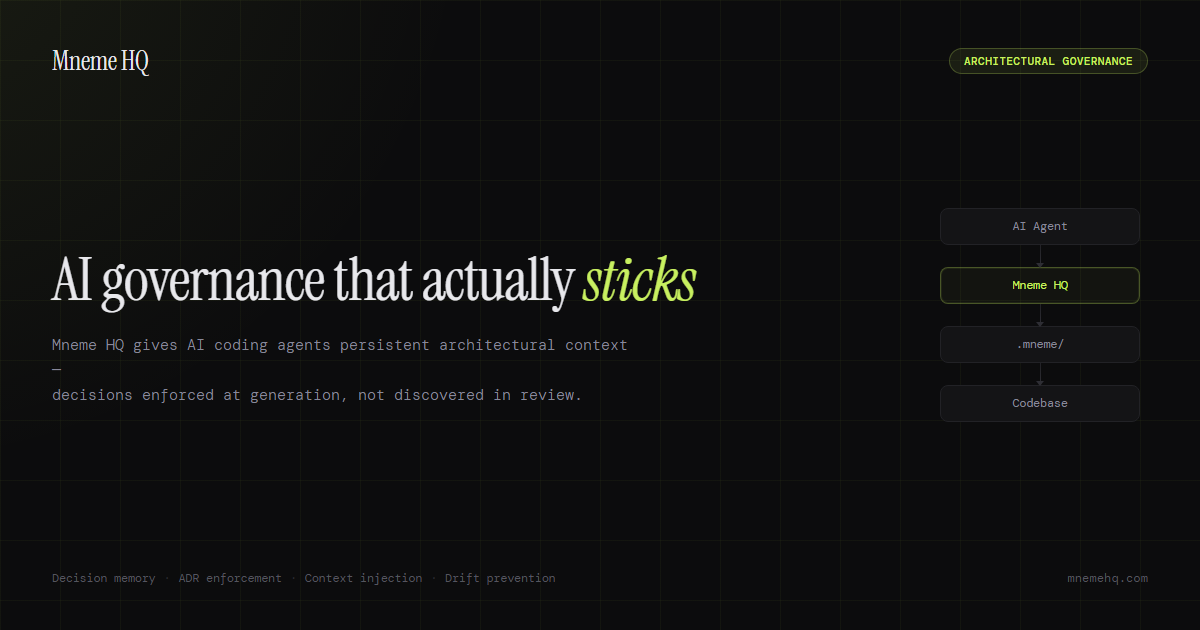
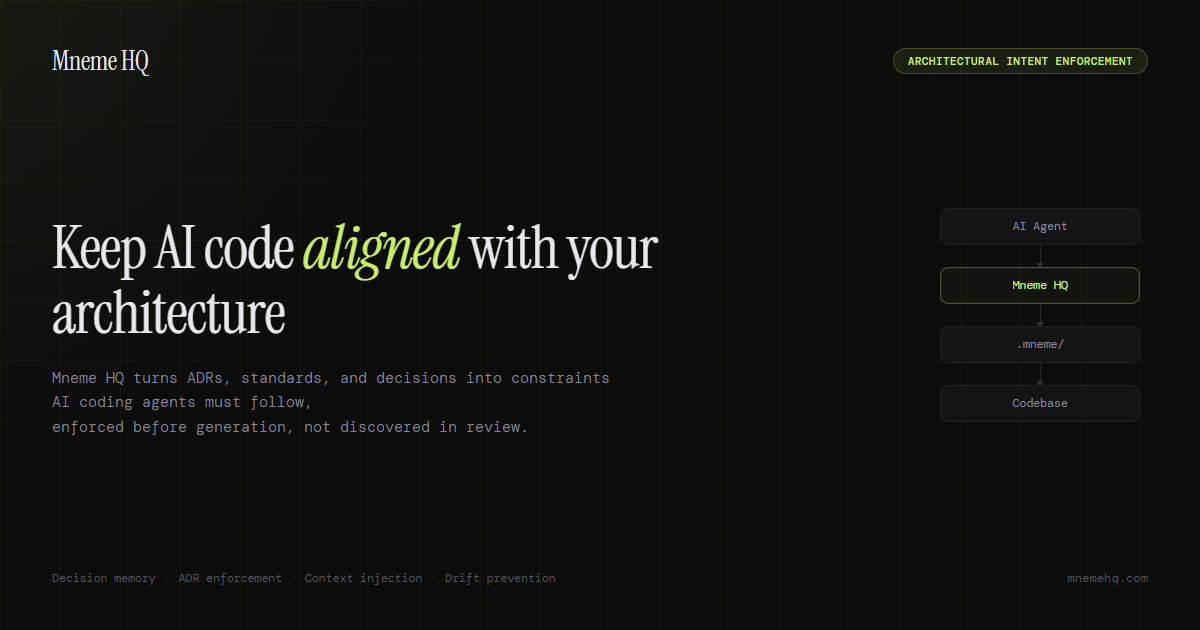
site: reposition homepage to architectural intent enforcement
Lead the homepage with "architectural intent enforcement for AI coding
agents" while keeping "engineering governance" as the broader category,
per the positioning correction.

- Metadata/OG/Twitter/JSON-LD: new title, description, and SoftwareApplication/
  Organization/FAQPage copy; drop the "AI code review bottleneck" entity.
- Hero: new eyebrow, H1 ("Keep AI-generated code aligned with your
  architecture."), sub, bullets, and CTA order (demo, GitHub, pilot).
- Problem section: replace "The bottleneck" with "The architectural control
  gap" (H2 + body + three reframed cards).
- "Where Mneme sits": rename section to "The architectural intent enforcement
  layer" and relabel the SVG diagram (Engineering Governance Layer ->
  Architectural Intent Enforcement, Policy evaluation -> Constraint evaluation,
  Project memory -> Decision corpus, Engineering rules -> Architectural
  constraints, REJECT -> BLOCK, Architecturally compliant code ->
  Architecture-aligned code).
- Stack: rename to "The AI-assisted engineering stack"; Layer 05 ->
  "Architectural intent enforcement".
- Add "Not all AI guardrails govern architecture" disambiguation section.
- Regenerate og.png from the updated OG template.

Homepage-only pass; other pages, the category page, and distribution are
follow-ups.

Changed region(s): [[0.0308, 0.3619, 0.5858, 0.6937], [0.74, 0.0905, 0.9558, 0.1206]]

diff --git a/site/index.html b/site/index.html
@@ -3,11 +3,11 @@
 <head>
   <meta charset="UTF-8" />
   <meta name="viewport" content="width=device-width, initial-scale=1.0" />
-  <title>Mneme HQ — Architectural Governance for AI-Assisted Development</title>
+  <title>Architectural Intent Enforcement for AI Coding Agents | Mneme HQ</title>
   <link rel="preload" href="/assets/fonts/InstrumentSerif-400.woff2" as="font" type="font/woff2" crossorigin>
   <link rel="preload" href="/assets/fonts/Inter-400.woff2" as="font" type="font/woff2" crossorigin>
   <link rel="stylesheet" href="/assets/css/fonts.css">
-  <meta name="description" content="Mneme HQ enforces your team's architectural decisions before AI-generated code reaches review. Prevent drift, enforce standards, and govern AI coding at the source." />
+  <meta name="description" content="Keep AI-generated code aligned with ADRs, engineering standards, and system boundaries. Mneme HQ enforces architectural intent before generation and in CI." />
   <meta name="google-site-verification" content="eW7iETj7y-Ni_T0RYKR0cvBXhaz3y4NfEfHSwXbMlNQ" />
   <meta name="robots" content="index, follow" />
   <meta name="theme-color" content="#0c0c0d" />
@@ -16,14 +16,14 @@
   <!-- Open Graph -->
   <meta property="og:type" content="website" />
   <meta property="og:site_name" content="Mneme HQ" />
-  <meta property="og:title" content="Mneme HQ — Architectural Governance for AI-Assisted Development" />
-  <meta property="og:description" content="Mneme HQ enforces your team's architectural decisions before AI-generated code reaches review. Prevent drift, enforce standards, and govern AI coding at the source." />
+  <meta property="og:title" content="Architectural Intent Enforcement for AI Coding Agents | Mneme HQ" />
+  <meta property="og:description" content="Keep AI-generated code aligned with ADRs, engineering standards, and system boundaries. Mneme HQ enforces architectural intent before generation and in CI." />
   <meta property="og:url" content="https://mnemehq.com/" />
   <meta property="og:image" content="https://mnemehq.com/og.png" />
   <!-- Twitter Card -->
   <meta name="twitter:card" content="summary_large_image" />
-  <meta name="twitter:title" content="Mneme HQ — Architectural Governance for AI-Assisted Development" />
-  <meta name="twitter:description" content="Mneme HQ enforces your team's architectural decisions before AI-generated code reaches review. Prevent drift, enforce standards, and govern AI coding at the source." />
+  <meta name="twitter:title" content="Architectural Intent Enforcement for AI Coding Agents | Mneme HQ" />
+  <meta name="twitter:description" content="Keep AI-generated code aligned with ADRs, engineering standards, and system boundaries. Mneme HQ enforces architectural intent before generation and in CI." />
   <meta name="twitter:image" content="https://mnemehq.com/og.png" />
 
     <!-- Consent defaults -->
@@ -973,12 +973,12 @@ window.__mnemePixels.push({ done:false, cat:'visitor_id', fn:function () {
       "name": "Mneme HQ",
       "applicationCategory": "DeveloperApplication",
       "operatingSystem": "Linux, macOS, Windows",
-      "description": "Mneme HQ is the architectural governance layer for AI-assisted development. It compiles architectural intent into enforceable constraints that govern AI coding agents before code is generated, preventing architectural drift at the source rather than catching it in review.",
+      "description": "Mneme HQ enforces architectural intent for AI coding agents. It turns ADRs, engineering standards, and project decisions into enforceable constraints that apply before agents generate code, keeping AI-generated code aligned with your architecture rather than catching violations in review.",
       "url": "https://mnemehq.com/",
       "downloadUrl": "https://github.com/MnemeHQ/mneme",
       "isAccessibleForFree": true,
       "featureList": [
-        "Pre-generation architectural governance for AI coding agents",
+        "Architectural intent enforcement for AI coding agents",
         "Decision graphs compiled into enforceable constraints",
         "CI enforcement gate for AI-generated code",
         "Version-controlled architectural decision store",
@@ -987,10 +987,10 @@ window.__mnemePixels.push({ done:false, cat:'visitor_id', fn:function () {
         "Pre-generation governance complementary to post-generation observability"
       ],
       "about": [
-        { "@type": "Thing", "name": "Architectural governance" },
+        { "@type": "Thing", "name": "Architectural intent enforcement" },
         { "@type": "Thing", "name": "AI coding assistants" },
         { "@type": "Thing", "name": "Architectural Decision Records" },
-        { "@type": "Thing", "name": "AI code review bottleneck" }
+        { "@type": "Thing", "name": "Engineering governance for AI-assisted development" }
       ],
       "mentions": [
         { "@type": "Thing", "name": "Cursor Rules" },
@@ -1011,7 +1011,7 @@ window.__mnemePixels.push({ done:false, cat:'visitor_id', fn:function () {
       "name": "Mneme HQ",
       "url": "https://mnemehq.com/",
       "logo": "https://mnemehq.com/logo-v2.png",
-      "description": "Mneme HQ builds the architectural governance layer for AI-assisted development. We help engineering teams govern AI coding agents at the pre-generation stage, before architectural drift reaches review.",
+      "description": "Mneme HQ enforces architectural intent for AI coding agents, keeping generated code aligned with ADRs, engineering standards, and project decisions. It is the engineering governance layer for AI-assisted development, applied before code is generated rather than in review.",
       "sameAs": [
         "https://github.com/MnemeHQ/mneme"
       ]
@@ -1030,7 +1030,7 @@ window.__mnemePixels.push({ done:false, cat:'visitor_id', fn:function () {
           "name": "What is Mneme HQ?",
           "acceptedAnswer": {
             "@type": "Answer",
-            "text": "Mneme HQ is the architectural governance layer for AI-assisted development. It compiles architectural intent into enforceable constraints that govern AI coding agents before code is generated. As agent platforms proliferate, governance becomes infrastructure, and Mneme is positioned as the pre-generation governance layer of that stack."
+            "text": "Mneme HQ enforces architectural intent for AI coding agents. It turns ADRs, engineering standards, and project decisions into enforceable constraints that apply before agents generate code, so AI-generated code stays aligned with your architecture. The broader category is engineering governance for AI-assisted development; the concrete mechanism is architectural intent enforcement."
           }
         },
         {
@@ -1104,24 +1104,24 @@ window.__mnemePixels.push({ done:false, cat:'visitor_id', fn:function () {
 
 <!-- GEO / LLM answer capsule -->
 <div class="answer-capsule">
-  <strong>Mneme HQ</strong> is the architectural governance layer for AI-assisted development. It compiles your team's architectural intent into enforceable constraints that govern AI coding agents at the pre-generation stage, before architectural drift reaches review. Rules files document standards. Memory tools recall context. RAG retrieves knowledge. Mneme governs implementation.
+  <strong>Mneme HQ</strong> enforces architectural intent for AI coding agents. It turns your team's ADRs, engineering standards, and project decisions into enforceable constraints that apply before agents generate code, so AI-generated code stays aligned with your architecture instead of drifting until review. Rules files document standards. Memory tools recall context. RAG retrieves knowledge. Mneme enforces the architectural decisions that govern implementation.
 </div>
 
   <!-- HERO -->
   <div class="hero">
-    <div class="hero-tag">Architectural governance for AI-assisted development</div>
-    <h1>Govern AI coding agents <br>before they generate the code.</h1>
-    <p class="hero-sub">Stop architectural drift before it reaches review. Mneme catches violations at the moment AI generates code — so your standards are enforced, not just documented.</p>
+    <div class="hero-tag">Architectural intent enforcement for AI coding agents</div>
+    <h1>Keep AI-generated code <br>aligned with your architecture.</h1>
+    <p class="hero-sub">Mneme HQ turns ADRs, engineering standards, and project decisions into enforceable constraints that apply before AI coding agents write code — so your architecture is enforced, not just documented.</p>
     <ul class="hero-bullets">
-      <li>Block banned frameworks, cross-boundary calls, and superseded decisions before generation</li>
-      <li>No re-prompting — constraints apply on every call, every session, across every agent</li>
-      <li>Surface violations before the PR, not during it — cut review overhead at the source</li>
+      <li>Block changes that violate service boundaries, approved frameworks, or superseded decisions</li>
+      <li>Apply the same architectural decisions across agents, sessions, repositories, and CI</li>
+      <li>Preserve human review for engineering judgment instead of re-recovering known constraints</li>
     </ul>
     <p class="hero-support">Works with direct API integrations, coding assistants, agent frameworks, and managed agent platforms.</p>
     <div class="cta-group">
-      <a href="/pilot/" class="btn-primary">Request pilot access</a>
-      <a href="/demo/" class="btn-ghost">Walk the flagship demos</a>
+      <a href="/demo/" class="btn-primary">See the live enforcement demo</a>
       <a href="https://github.com/MnemeHQ/mneme" class="btn-ghost">View on GitHub</a>
+      <a href="/pilot/" class="btn-ghost">Request a pilot</a>
     </div>
   </div>
 
@@ -1163,13 +1163,11 @@ window.__mnemePixels.push({ done:false, cat:'visitor_id', fn:function () {
 
   <div style="background:var(--surface2);border-top:1px solid var(--border2);border-bottom:1px solid var(--border2);">
   <div class="section-wrap" id="problem" style="border-top:none;padding-top:4.25rem;padding-bottom:4.25rem;">
-    <div class="section-eyebrow">The bottleneck</div>
-    <h2 class="section-title" style="margin-bottom:0.5rem;">AI increased code output.<br><span style="color:#ff7070;">Review capacity did not.</span></h2>
+    <div class="section-eyebrow">The architectural control gap</div>
+    <h2 class="section-title" style="margin-bottom:0.5rem;">AI coding agents can complete the task<br><span style="color:#ff7070;">and still violate the system.</span></h2>
     <p style="max-width:620px;margin-bottom:2rem;color:var(--muted);font-size:1.05rem;line-height:1.55;">
-      Coding assistants generate code faster than teams can review it.<br>
-      But review bandwidth has not increased.<br><br>
-      That means more surface area to validate, more architectural drift to catch,
-      and more governance pushed downstream into PR review.<br><br>
+      Generated code can pass its tests while bypassing an approved data layer, crossing a service boundary, introducing a prohibited dependency, or reviving an architectural decision the team already replaced.<br><br>
+      Rules files and memory can provide context. They do not create a deterministic enforcement boundary.<br><br>
       AI agents do not just create more code. They expose <a href="/insights/ai-native-engineering-intent-debt/" style="color:#ff7070;text-decoration:none;border-bottom:1px dotted rgba(255,112,112,0.4);">intent debt</a>: undocumented, stale, or unenforced architectural decisions that human reviewers used to catch manually.<br><br>
       The issue is not model quality.
       It is that coding agents do not retain your architectural decisions by default.
@@ -1207,16 +1205,16 @@ window.__mnemePixels.push({ done:false, cat:'visitor_id', fn:function () {
 
     <div class="problem-grid">
       <div class="problem-card">
-        <div style="font-size:0.95rem;font-weight:600;color:var(--text);margin-bottom:0.5rem;">More PR Surface Area</div>
-        <div style="font-size:0.78rem;color:var(--muted);line-height:1.5;">AI increases the amount of code reviewers must validate per change.</div>
+        <div style="font-size:0.95rem;font-weight:600;color:var(--text);margin-bottom:0.5rem;">Functionally correct, structurally wrong</div>
+        <div style="font-size:0.78rem;color:var(--muted);line-height:1.5;">The output works, but it does not follow the architecture of the system it modifies.</div>
       </div>
       <div class="problem-card">
-        <div style="font-size:0.95rem;font-weight:600;color:var(--text);margin-bottom:0.5rem;">Reactive Governance</div>
-        <div style="font-size:0.78rem;color:var(--muted);line-height:1.5;">Architectural violations are caught after generation, during review.</div>
+        <div style="font-size:0.95rem;font-weight:600;color:var(--text);margin-bottom:0.5rem;">Decisions trapped in documentation</div>
+        <div style="font-size:0.78rem;color:var(--muted);line-height:1.5;">ADRs and engineering standards remain passive text unless they are applied at the point of generation.</div>
       </div>
       <div class="problem-card">
-        <div style="font-size:0.95rem;font-weight:600;color:var(--text);margin-bottom:0.5rem;">Session Amnesia</div>
-        <div style="font-size:0.78rem;color:var(--muted);line-height:1.5;">Coding agents forget prior decisions unless re-prompted every time.</div>
+        <div style="font-size:0.95rem;font-weight:600;color:var(--text);margin-bottom:0.5rem;">Violations recovered during review</div>
+        <div style="font-size:0.78rem;color:var(--muted);line-height:1.5;">Senior engineers spend review time rediscovering constraints the organization has already decided.</div>
       </div>
     </div>
   </div>
@@ -1225,14 +1223,14 @@ window.__mnemePixels.push({ done:false, cat:'visitor_id', fn:function () {
   <!-- CATEGORY POSITIONING -->
   <div class="section-wrap" id="positioning">
     <div class="section-eyebrow">Where Mneme sits</div>
-    <h2 class="section-title">Adjacent tools solve adjacent problems.</h2>
+    <h2 class="section-title">The architectural intent enforcement layer.</h2>
     <p style="max-width:620px;margin-bottom:1rem;color:var(--muted);font-size:1.05rem;line-height:1.6;">
-      Mneme is not a memory tool, not a rules file, and not a RAG system. Each of those exists for a reason. None of them govern implementation.
+      Coding agents generate. Rules files steer. Memory recalls. RAG retrieves. Mneme HQ enforces the architectural decisions that govern implementation.
     </p>
     <figure class="arch-figure" style="margin:1.75rem 0 2.25rem;">
       <svg viewBox="0 0 820 660" xmlns="http://www.w3.org/2000/svg" role="img" aria-labelledby="wms-t wms-d" style="width:100%;height:auto;display:block;max-width:820px;margin:0 auto;" font-family="Inter, ui-sans-serif, system-ui, sans-serif">
         <title id="wms-t">Where Mneme sits</title>
-        <desc id="wms-d">A developer prompts AI coding agents (Claude Code, Cursor, Codex). The Mneme HQ engineering governance layer for AI coding agents draws on ADRs, standards, engineering rules and project memory to run a policy evaluation. An allow verdict yields architecturally compliant code; a reject verdict produces guidance that is fed back to the agents to retry.</desc>
+        <desc id="wms-d">A developer prompts AI coding agents (Claude Code, Cursor, Codex). The Mneme HQ architectural intent enforcement layer for AI coding agents draws on ADRs, standards, architectural constraints and its decision corpus to run a constraint evaluation. An allow verdict yields architecture-aligned code; a block verdict produces guidance that is fed back to the agents to retry.</desc>
         <defs>
           <marker id="wms-al" viewBox="0 0 10 10" refX="8" refY="5" markerWidth="7" markerHeight="7" orient="auto-start-reverse"><path d="M0 0L10 5L0 10z" fill="#c8f060"/></marker>
           <marker id="wms-ag" viewBox="0 0 10 10" refX="8" refY="5" markerWidth="6" markerHeight="6" orient="auto-start-reverse"><path d="M0 0L10 5L0 10z" fill="#33333a"/></marker>
@@ -1254,7 +1252,7 @@ window.__mnemePixels.push({ done:false, cat:'visitor_id', fn:function () {
         <path d="M500 440 V470 H610 V498" fill="none" stroke="#c8f060" stroke-width="1.5" marker-end="url(#wms-al)"/>
         <path d="M380 440 V470 H225 V498" fill="none" stroke="#5c5c66" stroke-width="1.4" marker-end="url(#wms-ag)"/>
         <text x="618" y="464" fill="#c8f060" font-family="'DM Mono', ui-monospace, monospace" font-size="10.5">ALLOW</text>
-        <text x="150" y="464" fill="#a8a8b8" font-family="'DM Mono', ui-monospace, monospace" font-size="10.5">REJECT</text>
+        <text x="150" y="464" fill="#a8a8b8" font-family="'DM Mono', ui-monospace, monospace" font-size="10.5">BLOCK</text>
         <path d="M150 521 H44 V140 H316" fill="none" stroke="#6ea8d8" stroke-width="1.4" stroke-dasharray="5 4" marker-end="url(#wms-ab)"/>
         <text x="52" y="330" fill="#9cc4ea" font-family="'DM Mono', ui-monospace, monospace" font-size="10" transform="rotate(-90 52 330)">retry with guidance</text>
         <rect x="370" y="50" width="140" height="42" rx="8" fill="#141416" stroke="#2e2e34"/>
@@ -1264,19 +1262,19 @@ window.__mnemePixels.push({ done:false, cat:'visitor_id', fn:function () {
         <text x="440" y="158" fill="#9cc4ea" font-family="'DM Mono', ui-monospace, monospace" font-size="10.5" text-anchor="middle">Claude Code &#183; Cursor &#183; Codex</text>
         <rect x="230" y="196" width="420" height="66" rx="11" fill="#16170c" stroke="#c8f060" stroke-width="1.8"/>
         <text x="440" y="223" fill="#c8f060" font-size="17" font-weight="700" text-anchor="middle">Mneme HQ</text>
-        <text x="440" y="246" fill="#dfe3cf" font-size="12.5" text-anchor="middle">Engineering Governance Layer for AI Coding Agents</text>
+        <text x="440" y="246" fill="#dfe3cf" font-size="12.5" text-anchor="middle">Architectural Intent Enforcement for AI Coding Agents</text>
         <g font-size="12.5" text-anchor="middle">
           <rect x="110" y="300" width="150" height="48" rx="8" fill="#141416" stroke="#8be0c8" stroke-width="1.2"/><text x="185" y="329" fill="#e8e8ec">ADRs</text>
           <rect x="280" y="300" width="150" height="48" rx="8" fill="#141416" stroke="#8be0c8" stroke-width="1.2"/><text x="355" y="329" fill="#e8e8ec">Standards</text>
-          <rect x="450" y="300" width="150" height="48" rx="8" fill="#141416" stroke="#8be0c8" stroke-width="1.2"/><text x="525" y="329" fill="#e8e8ec">Engineering rules</text>
-          <rect x="620" y="300" width="150" height="48" rx="8" fill="#141416" stroke="#8be0c8" stroke-width="1.2"/><text x="695" y="329" fill="#e8e8ec">Project memory</text>
+          <rect x="450" y="300" width="150" height="48" rx="8" fill="#141416" stroke="#8be0c8" stroke-width="1.2"/><text x="525" y="329" fill="#e8e8ec" font-size="11">Architectural constraints</text>
+          <rect x="620" y="300" width="150" height="48" rx="8" fill="#141416" stroke="#8be0c8" stroke-width="1.2"/><text x="695" y="329" fill="#e8e8ec">Decision corpus</text>
         </g>
         <rect x="330" y="392" width="220" height="48" rx="8" fill="#141416" stroke="#2e2e34"/>
-        <text x="440" y="421" fill="#e8e8ec" font-size="13.5" text-anchor="middle">Policy evaluation</text>
+        <text x="440" y="421" fill="#e8e8ec" font-size="13.5" text-anchor="middle">Constraint evaluation</text>
         <rect x="150" y="498" width="150" height="46" rx="8" fill="#16170c" stroke="#c8f060" stroke-width="1.3"/>
         <text x="225" y="526" fill="#c8f060" font-size="13" text-anchor="middle">Guidance</text>
         <rect x="486" y="498" width="252" height="46" rx="8" fill="#16170c" stroke="#c8f060" stroke-width="1.4"/>
-        <text x="612" y="526" fill="#e8e8ec" font-size="13" text-anchor="middle">Architecturally compliant code</text>
+        <text x="612" y="526" fill="#e8e8ec" font-size="13" text-anchor="middle">Architecture-aligned code</text>
       </svg>
       <figcaption style="margin-top:0.7rem;font-size:0.82rem;color:#a8a8b8;text-align:center;line-height:1.6;">Mneme governs the moment between intent and generated code &mdash; one set of rules, applied to every agent, before the change lands.</figcaption>
     </figure>
@@ -1296,7 +1294,7 @@ window.__mnemePixels.push({ done:false, cat:'visitor_id', fn:function () {
     </div>
 
     <div class="category-stack">
-      <h4>The AI coding governance stack</h4>
+      <h4>The AI-assisted engineering stack</h4>
       <div class="stack-row">
         <div class="stack-stage is-mneme">Pre-generation governance</div>
         <div class="stack-tool"><strong>Mneme.</strong> Compiles architectural intent into enforceable constraints before the agent generates code.</div>
@@ -1315,6 +1313,35 @@ window.__mnemePixels.push({ done:false, cat:'visitor_id', fn:function () {
     </div>
   </div>
 
+  <!-- DISAMBIGUATION -->
+  <div style="background:var(--surface2);border-top:1px solid var(--border2);border-bottom:1px solid var(--border2);">
+  <div class="section-wrap" id="disambiguation" style="border-top:none;">
+    <div class="section-eyebrow">Not the same category</div>
+    <h2 class="section-title">Not all AI guardrails govern architecture.</h2>
+    <p style="max-width:620px;margin-bottom:1.5rem;color:var(--muted);font-size:1.05rem;line-height:1.6;">
+      "Governance" and "guardrails" describe several different problems. Mneme HQ solves a specific one: keeping AI-generated code aligned with your architecture.
+    </p>
+    <div style="display:grid;grid-template-columns:repeat(auto-fit,minmax(200px,1fr));gap:1rem;">
+      <div style="background:rgba(255,255,255,0.035);border:1px solid rgba(255,255,255,0.10);border-radius:8px;padding:1.4rem 1.5rem;">
+        <div style="font-size:0.72rem;font-family:'DM Mono',monospace;color:var(--muted);text-transform:uppercase;letter-spacing:0.05em;margin-bottom:0.55rem;">AI governance platforms</div>
+        <div style="font-size:0.9rem;color:var(--text);line-height:1.5;">Manage model risk, compliance, access, and organizational oversight.</div>
+      </div>
+      <div style="background:rgba(255,255,255,0.035);border:1px solid rgba(255,255,255,0.10);border-radius:8px;padding:1.4rem 1.5rem;">
+        <div style="font-size:0.72rem;font-family:'DM Mono',monospace;color:var(--muted);text-transform:uppercase;letter-spacing:0.05em;margin-bottom:0.55rem;">Agent security guardrails</div>
+        <div style="font-size:0.9rem;color:var(--text);line-height:1.5;">Restrict commands, tools, credentials, networks, and runtime behaviour.</div>
+      </div>
+      <div style="background:rgba(255,255,255,0.035);border:1px solid rgba(255,255,255,0.10);border-radius:8px;padding:1.4rem 1.5rem;">
+        <div style="font-size:0.72rem;font-family:'DM Mono',monospace;color:var(--muted);text-transform:uppercase;letter-spacing:0.05em;margin-bottom:0.55rem;">Memory and rules files</div>
+        <div style="font-size:0.9rem;color:var(--text);line-height:1.5;">Provide agents with instructions and historical context.</div>
+      </div>
+      <div style="background:rgba(200,240,96,0.05);border:1px solid rgba(200,240,96,0.28);border-left:3px solid var(--accent);border-radius:8px;padding:1.4rem 1.5rem;">
+        <div style="font-size:0.72rem;font-family:'DM Mono',monospace;color:var(--accent);text-transform:uppercase;letter-spacing:0.05em;margin-bottom:0.55rem;">Mneme HQ</div>
+        <div style="font-size:0.9rem;color:var(--text);line-height:1.5;">Enforces ADRs, system boundaries, framework decisions, and engineering standards where agents generate code.</div>
+      </div>
+    </div>
+  </div>
+  </div>
+
   <!-- HOW IT WORKS + RAG COMPARISON -->
   <div style="background:var(--surface2);border-top:1px solid var(--border2);border-bottom:1px solid var(--border2);">
   <div class="section-wrap" id="how-it-works" style="border-top:none;">
@@ -1324,7 +1351,7 @@ window.__mnemePixels.push({ done:false, cat:'visitor_id', fn:function () {
     <!-- Where Mneme sits in the AI coding stack -->
     <figure style="background:var(--surface);border:1px solid var(--border);border-radius:12px;padding:1.5rem 1.5rem;margin:0 0 2.5rem;max-width:740px;">
       <figcaption style="font-family:'DM Mono',monospace;font-size:0.66rem;letter-spacing:0.1em;text-transform:uppercase;color:var(--muted);margin-bottom:0.95rem;">Where Mneme sits &middot; generative AI software engineering stack</figcaption>
-      <div role="img" aria-label="Seven-layer Generative AI software engineering stack with Mneme highlighted at Layer 05 (governance and control)." style="display:flex;flex-direction:column;gap:5px;">
+      <div role="img" aria-label="Seven-layer Generative AI software engineering stack with Mneme highlighted at Layer 05 (architectural intent enforcement)." style="display:flex;flex-direction:column;gap:5px;">
         <div style="display:grid;grid-template-columns:34px 1fr auto;gap:12px;align-items:center;padding:7px 10px;border:1px solid var(--border);border-radius:6px;background:var(--surface2);">
           <span style="font-family:'DM Mono',monospace;font-size:0.66rem;color:#55555f;">07</span>
           <span style="font-family:'DM Mono',monospace;font-size:0.78rem;color:var(--text);">Human oversight</span>
@@ -1337,7 +1364,7 @@ window.__mnemePixels.push({ done:false, cat:'visitor_id', fn:function () {
         </div>
         <div style="display:grid;grid-template-columns:34px 1fr auto;gap:12px;align-items:center;padding:9px 10px;border:1px solid rgba(200,240,96,0.5);border-radius:6px;background:linear-gradient(90deg,rgba(200,240,96,0.08),rgba(200,240,96,0.02));">
           <span style="font-family:'DM Mono',monospace;font-size:0.66rem;color:var(--accent);">05</span>
-          <span style="font-family:'DM Mono',monospace;font-size:0.82rem;color:var(--accent);font-weight:500;">Governance &amp; control</span>
+          <span style="font-family:'DM Mono',monospace;font-size:0.82rem;color:var(--accent);font-weight:500;">Architectural intent enforcement</span>
           <span style="font-family:'DM Mono',monospace;font-size:0.66rem;color:#0c0c0d;background:var(--accent);border-radius:100px;padding:2px 9px;letter-spacing:0.04em;">Mneme HQ</span>
         </div>
         <div style="display:grid;grid-template-columns:34px 1fr auto;gap:12px;align-items:center;padding:7px 10px;border:1px solid var(--border);border-radius:6px;background:var(--surface2);">
@@ -1652,7 +1679,7 @@ window.__mnemePixels.push({ done:false, cat:'visitor_id', fn:function () {
     <div class="faq-list">
       <details class="faq-item">
         <summary>What is Mneme HQ?</summary>
-        <p>Mneme HQ is the architectural governance layer for AI-assisted development. It compiles architectural intent into enforceable constraints that govern AI coding agents before code is generated. As agent platforms proliferate, governance becomes infrastructure, and Mneme is positioned as the pre-generation governance layer of that stack.</p>
+        <p>Mneme HQ enforces architectural intent for AI coding agents. It turns ADRs, engineering standards, and project decisions into enforceable constraints that apply before agents generate code, so AI-generated code stays aligned with your architecture. The broader category is engineering governance for AI-assisted development; the concrete mechanism is architectural intent enforcement.</p>
       </details>
       <details class="faq-item">
         <summary>How is Mneme different from Cursor Rules or CLAUDE.md?</summary>

diff --git a/site/og-homepage.html b/site/og-homepage.html
@@ -178,11 +178,11 @@
   <div class="container">
     <div class="top">
       <span class="logo">Mneme HQ</span>
-      <span class="tag">Architectural Governance</span>
+      <span class="tag">Architectural Intent Enforcement</span>
     </div>
     <div class="middle">
-      <div class="heading">AI governance that actually <em>sticks</em></div>
-      <div class="subtitle">Mneme HQ gives AI coding agents persistent architectural context —<br>decisions enforced at generation, not discovered in review.</div>
+      <div class="heading">Keep AI code <em>aligned</em> with your architecture</div>
+      <div class="subtitle">Mneme HQ turns ADRs, standards, and decisions into constraints AI coding agents must follow,<br>enforced before generation, not discovered in review.</div>
     </div>
     <div class="bottom">
       <div class="items">